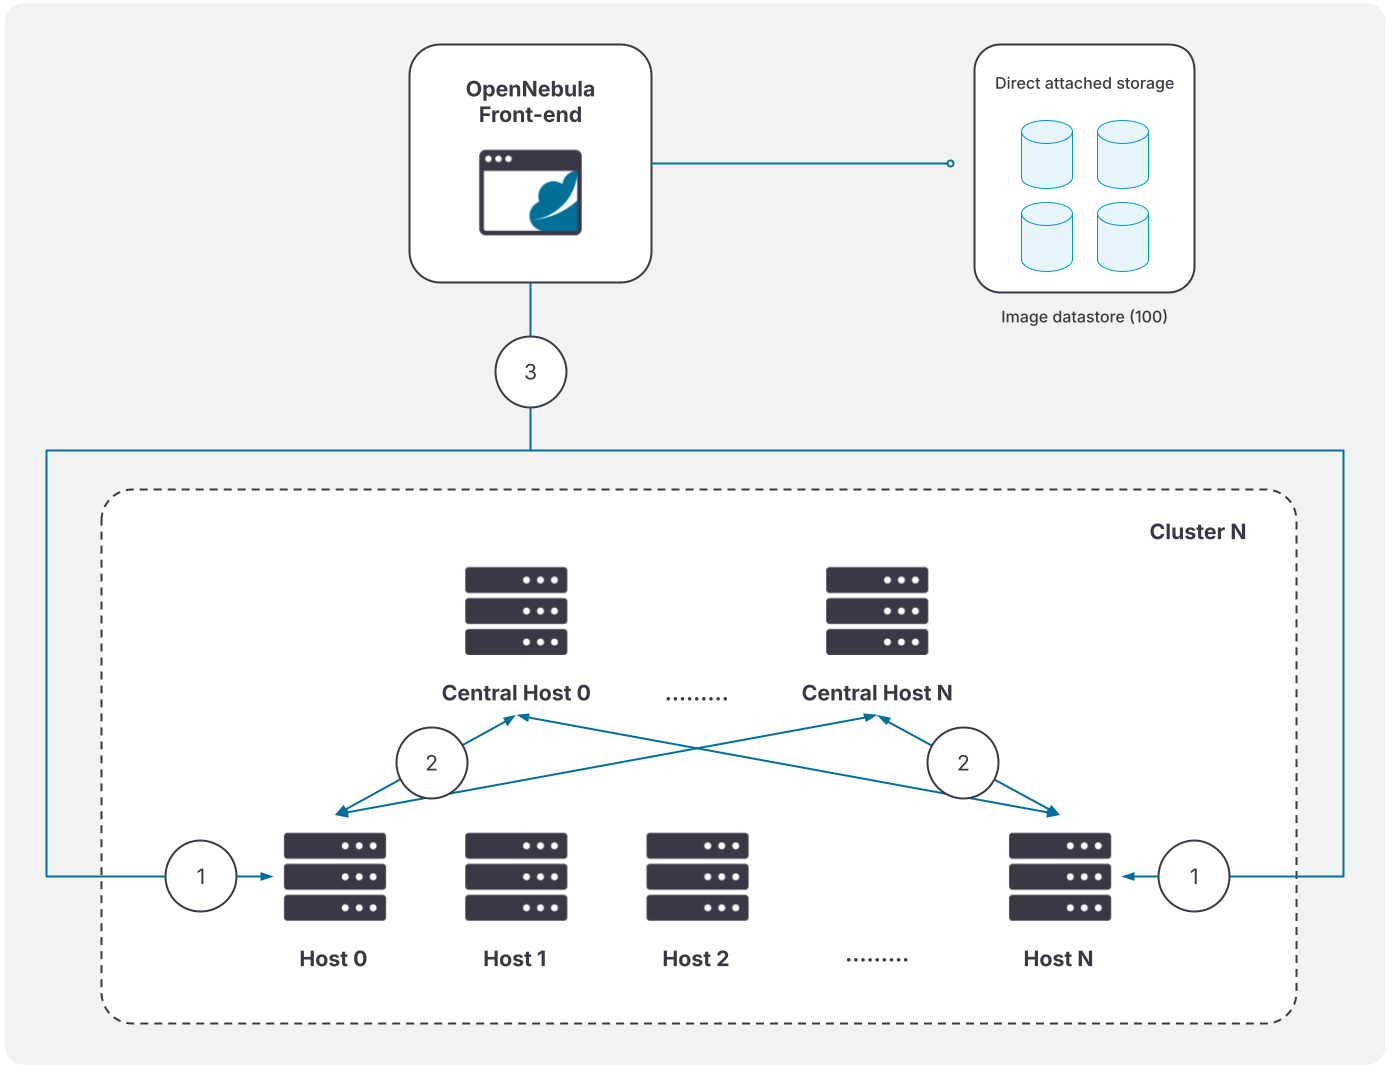
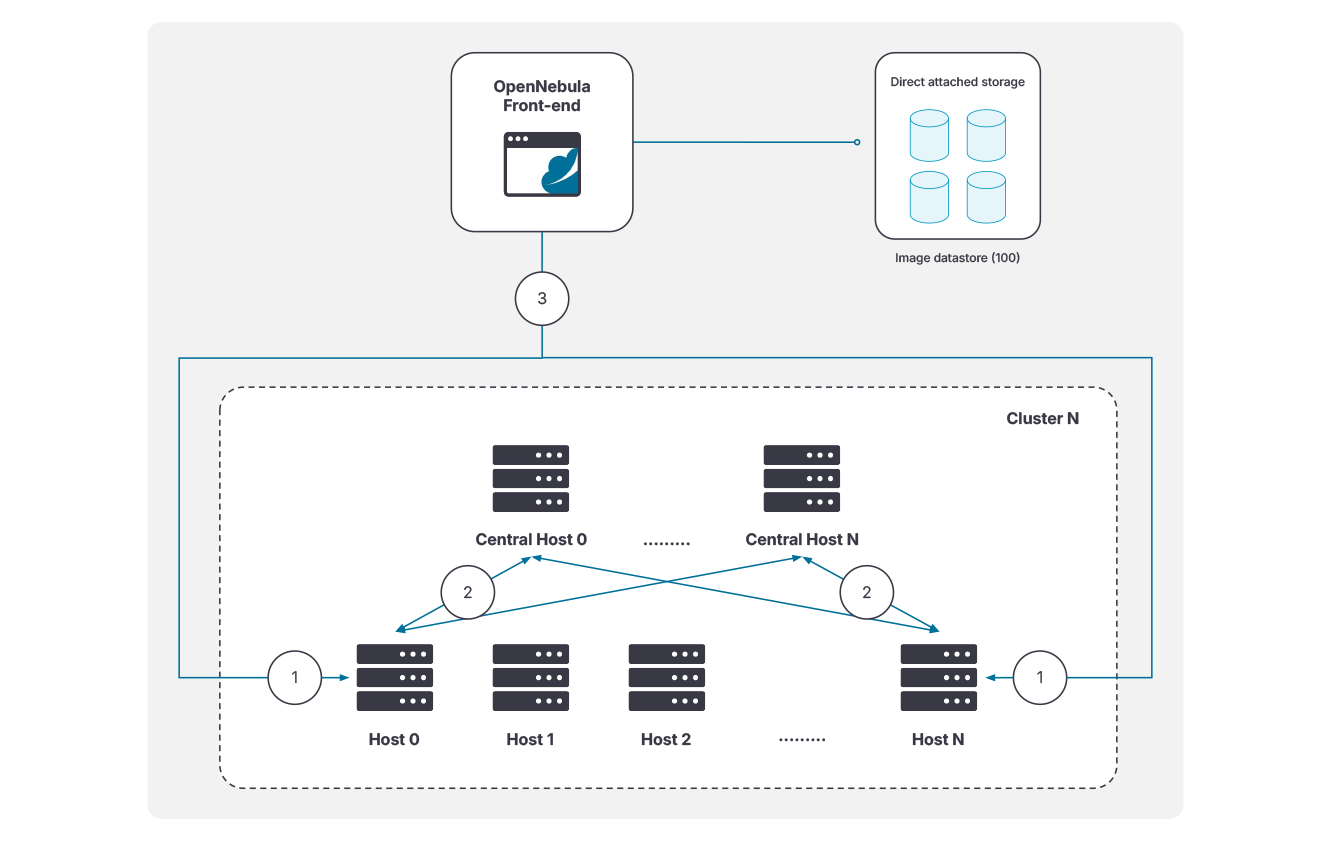
M #-: Replace img

Changed region(s): [[0.0308, 0.5256, 0.9549, 0.9584], [0.3388, 0.0618, 0.8625, 0.3092], [0.0308, 0.3092, 0.9549, 0.5256]]

diff --git a/content/product/cluster_configuration/storage_system/local_ds.md b/content/product/cluster_configuration/storage_system/local_ds.md
@@ -153,9 +153,7 @@ The distributed cache maintains VM disk images in two levels:
 
 When a VM is instantiated, the Host first checks its *local cache* for the needed image. If missing, it then checks the *central cache*. Only if the image is not found in either cache does the Host request it from the Image Datastore on the Front-end. Once retrieved from the Front-end, the image is stored in both caches for future reuse.
 
-<!-- ![image3](/images/local_ds_cache.png) -->
-
-{{< image alt="><" path=/images/local_ds_cache.png width=837 height=557 >}}
+![><](/images/local_ds_cache.png)
 
 ## How to Enable and Configure the Cache
 
